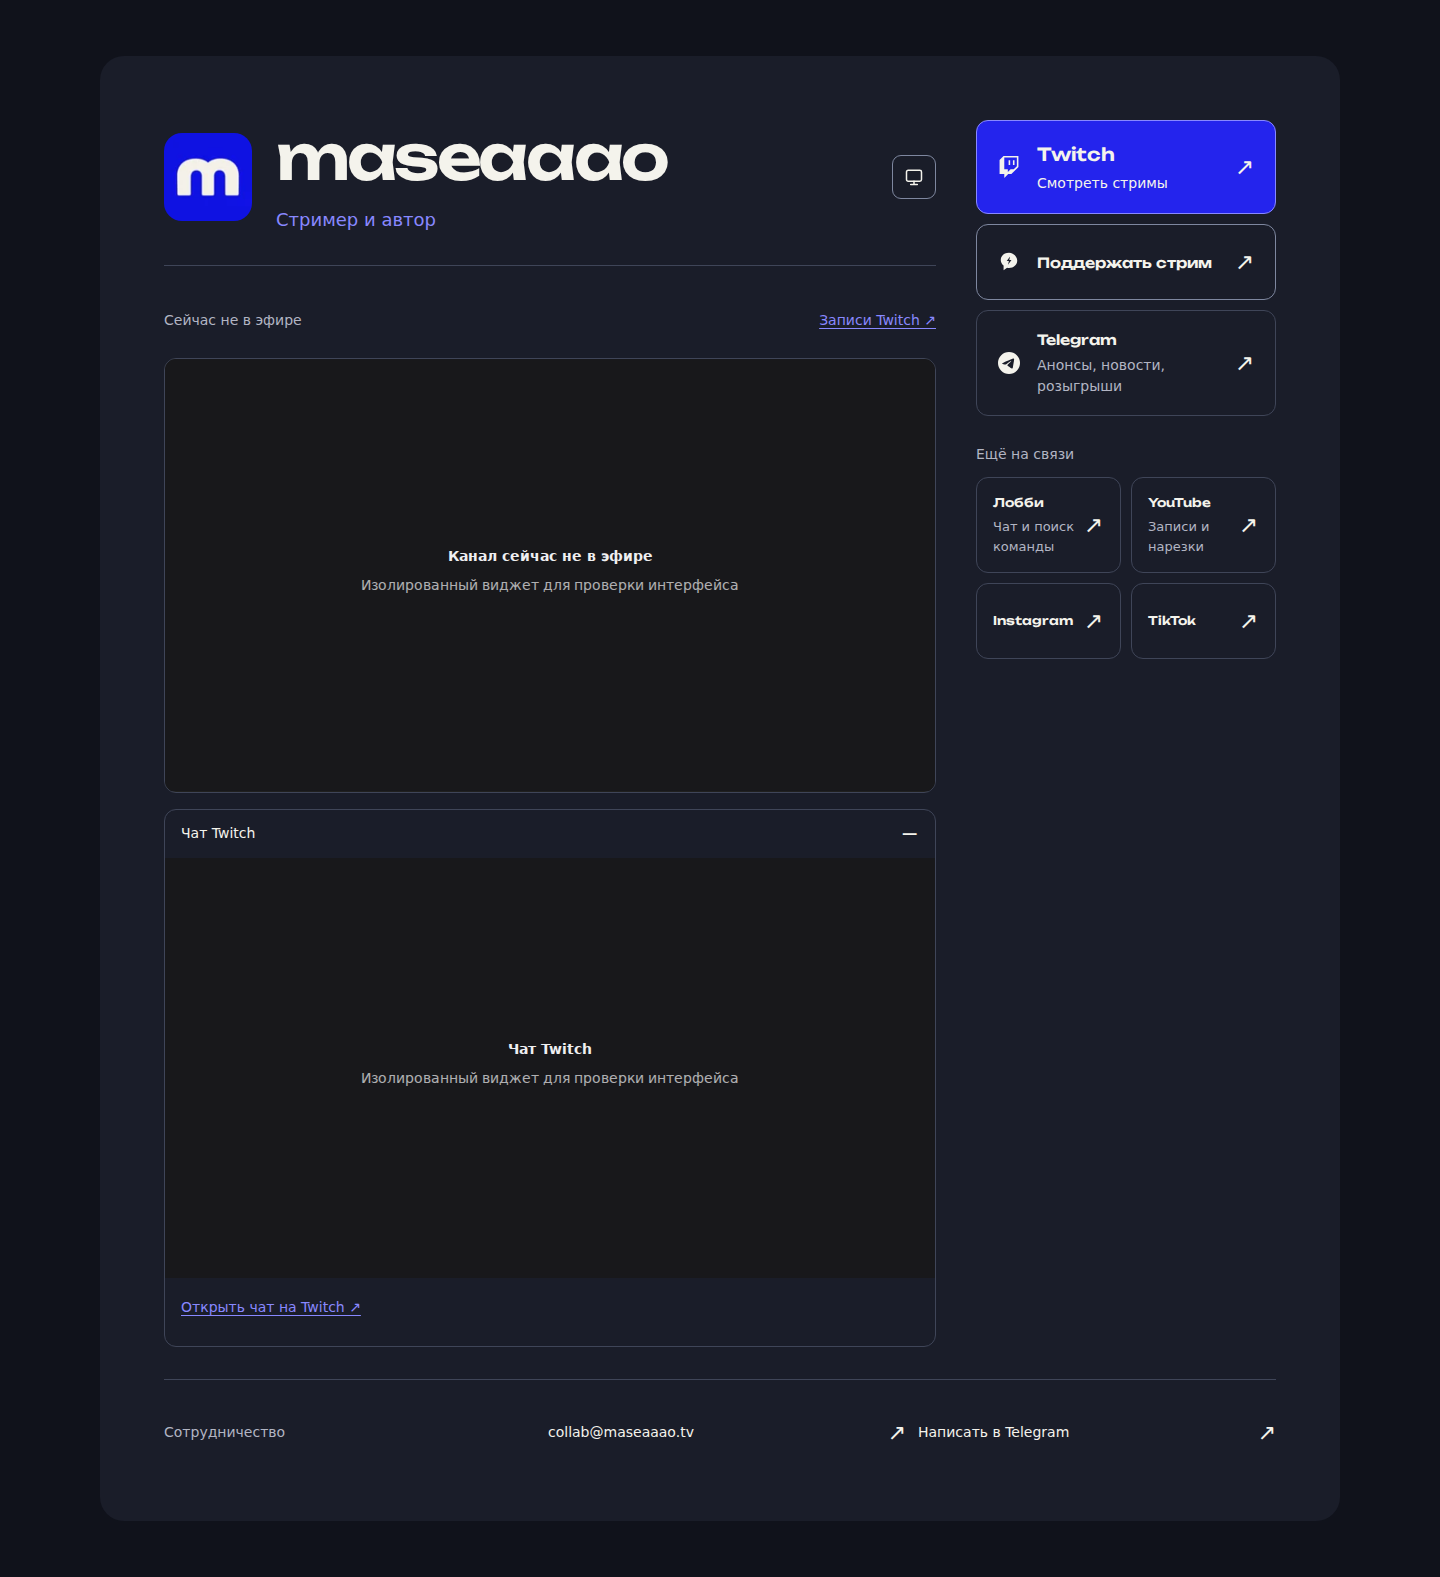
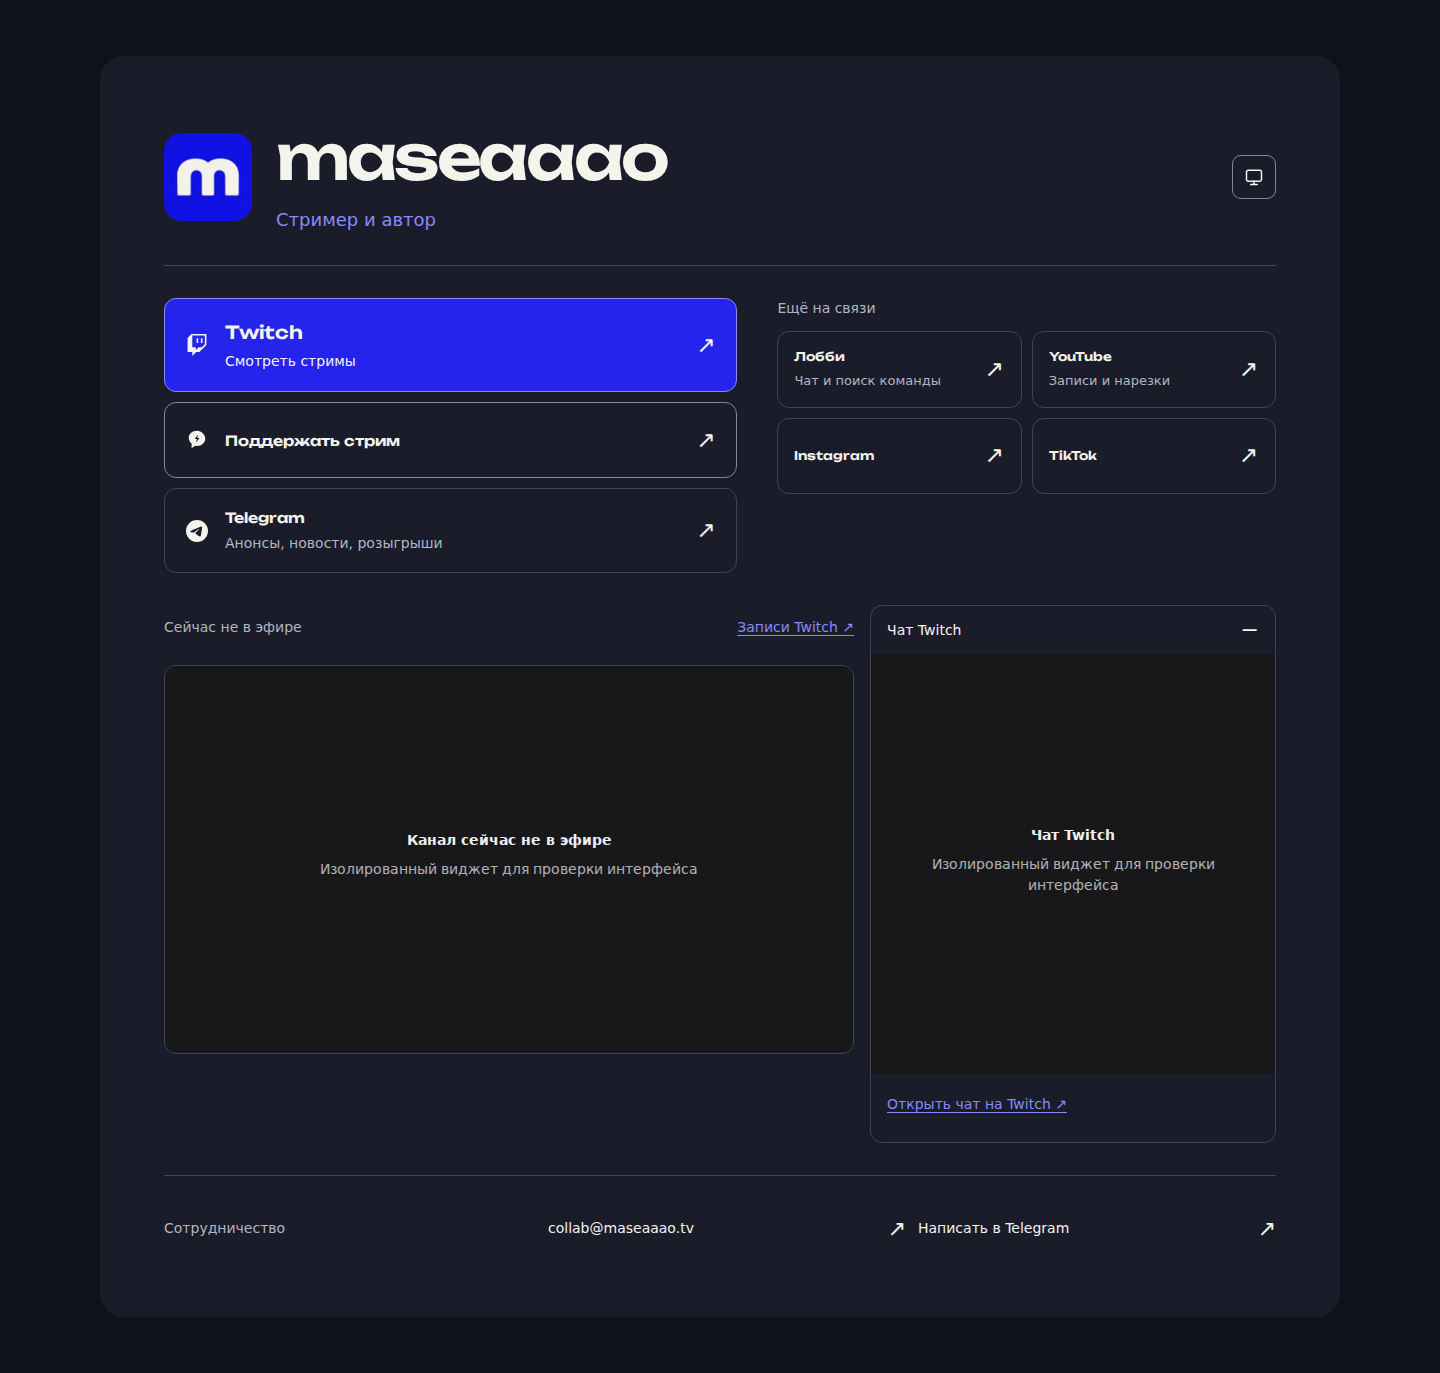
fix: keep nonmobile player and chat side by side below links

diff --git a/dist/assets/site.css b/dist/assets/site.css
@@ -46,7 +46,7 @@ a:focus-visible, button:focus-visible, summary:focus-visible, [tabindex="-1"]:fo
 .stream-fallback { margin: 0; color: var(--dim); font-size: 14px; }
 .stream-chat .stream-fallback { padding: 8px 16px 16px; }
 .stream-fallback a { display: inline-flex; align-items: center; min-height: 44px; }
-.stream-layout { grid-area: stream; grid-template-columns: minmax(0, 1.15fr) minmax(0, 1fr); align-items: start; }
+.stream-layout { grid-area: stream; grid-template-columns: minmax(0, 1fr); align-items: start; }
 .actions { grid-area: actions; display: grid; grid-template-columns: minmax(0, 1.15fr) minmax(0, 1fr); min-width: 0; gap: 28px 40px; align-items: start; }
 .section { min-width: 0; display: grid; gap: 12px; }
 .section-label, .collab__label { margin: 0; color: var(--dim); font: 14px/1.5 var(--font-body); }
@@ -119,13 +119,12 @@ a:focus-visible, button:focus-visible, summary:focus-visible, [tabindex="-1"]:fo
 .skip-links a { position: fixed; top: 12px; left: 12px; z-index: 10; transform: translateY(-200%); padding: 12px 16px; border: 2px solid var(--accent); border-radius: 8px; background: var(--surface); }
 .skip-links a:focus { transform: none; }
 #platform-links, #contacts { scroll-margin-top: 24px; }
-/* Stable desktop columns: profile and media on the left, actions on the right. */
-@media (min-width: 1101px) {
-  .shell { grid-template-columns: minmax(0, 1fr) 300px; grid-template-areas: "identity actions" "stream actions" "collab collab"; }
-  .actions, .stream-layout { grid-template-columns: minmax(0, 1fr); }
+/* Keep media below the links; reserve Twitch's minimum width beside chat. */
+@media (min-width: 768px) {
+  .stream-layout { grid-template-columns: minmax(402px, 1.7fr) minmax(0, 1fr); }
+  .stream-layout[data-state="offline"] .stream-archives { display: inline-flex; }
 }
-@media (min-width: 651px) { .stream-layout[data-state="offline"] .stream-archives { display: inline-flex; } }
-@media (max-width: 1000px) { .page { padding: 24px 16px; } .shell { gap: 28px; padding: 32px; } .actions, .stream-layout { grid-template-columns: minmax(0, 1fr); } .collab { grid-template-columns: 1fr; gap: 8px; } .identity { padding-bottom: 24px; } .tiles--primary { grid-template-columns: repeat(2, minmax(0, 1fr)); } .tile--wide { grid-column: 1 / -1; } .tiles--primary .tile { padding: 16px; gap: 12px; } }
+@media (max-width: 1000px) { .page { padding: 24px 16px; } .shell { gap: 28px; padding: 32px; } .actions { grid-template-columns: minmax(0, 1fr); } .collab { grid-template-columns: 1fr; gap: 8px; } .identity { padding-bottom: 24px; } .tiles--primary { grid-template-columns: repeat(2, minmax(0, 1fr)); } .tile--wide { grid-column: 1 / -1; } .tiles--primary .tile { padding: 16px; gap: 12px; } }
 @media (max-width: 540px) { .page { padding: 12px; } .shell { padding: 24px 20px; border-radius: 18px; gap: 24px; } .identity__top { gap: 16px; } .avatar-frame { width: 56px; height: 56px; border-radius: 12px; } .identity h1 { font-size: clamp(23px, 6.6vw, 34px); letter-spacing: -.06em; } .identity__description { margin-top: 8px; font-size: 15px; } .tiles--primary { grid-template-columns: 1fr; } .tile--wide { grid-column: auto; } .tile { min-height: 72px; padding: 16px; } .tile__title { font-size: 13px; } .collab__links { grid-template-columns: 1fr; gap: 0; } .checker { padding: 20px 12px; } .checker .card-header { padding: 16px; } .docs { padding: 28px 20px; } }
 @container twitch-content (width < 402px) { .stream-player { display: none; } .stream-mobile { display: block; } .stream-content > .stream-fallback { display: none; } }
 @media (prefers-reduced-motion: reduce) { *, *::before, *::after { transition: none !important; animation: none !important; scroll-behavior: auto !important; } .tile:active { transform: none; } }

diff --git a/dist/assets/stream.js b/dist/assets/stream.js
@@ -35,7 +35,7 @@
   fallbackUrl.searchParams.append("parent", window.location.hostname);
   originalFrame.remove();
 
-  const desktop = window.matchMedia("(min-width:651px)");
+  const desktop = window.matchMedia("(min-width:768px)");
   let status = "loading";
   let chatPreference = null;
   let playerPreference = false;

diff --git a/docs/layout.md b/docs/layout.md
@@ -1,15 +1,21 @@
-# Desktop viewing layout
+# Responsive viewing layout
 
-Wide viewports (1101px and above) use two stable columns: profile, player and
-chat on the left; a 300px column of platform/support links on the right. Contacts
-span the bottom. Compact layouts retain the sequential profile → links → media
-order. CSS controls this layout without detecting bots or full-screen APIs.
+At every viewport width, the profile is followed by platform/support links,
+then media and contacts. From 768px, the player and chat share a row below the
+links. The player column reserves at least 402px; chat uses the remaining width.
+Below 768px, media stacks vertically. CSS controls placement without detecting
+devices, bots or full-screen APIs.
 
-On nonmobile viewports (651px and above), the player and chat are open by default
+On nonmobile viewports (768px and above), the player and chat are open by default
 in loading, online, offline and error states. Offline leaves the native Twitch
 player visible; the status row retains the archive shortcut without replacing
 the player with a card. Status changes preserve the frame nodes and geometry.
 Users can collapse chat; their choice survives status updates and resizing.
+
+The Twitch SDK and fallback iframe both request autoplay with sound muted.
+When an online player is ready, the script also sets muted before requesting
+playback. If playback is blocked, the status message exposes the manual play
+action; browser permission to autoplay is not guaranteed.
 
 The status row reserves 44px so switching its message or showing the archive
 shortcut does not shift media. Player initialization still requires at least
@@ -23,13 +29,14 @@ The work adds no framework, dependency, timer or user-agent detection.
 
 ## Verification
 
-Chromium 153: both themes, online/offline/SDK error, 12 viewport widths from
-320px through 1920px, including both sides of the 1100/1101px layout breakpoint.
+Chromium 153: both themes, online/offline/SDK error, 14 viewport widths from
+320px through 1920px, including both sides of 767/768px and 1000/1001px.
 Checked visible text contrast, horizontal overflow, default media visibility,
-Twitch minimum dimensions and the theme dropdown bounds (72 combinations).
-The suite also checks stable link/video positions, retained iframe nodes,
-keyboard controls, manual chat choices, 200% text and viewport defaults when the
-player column itself does not resize.
+Twitch minimum dimensions and the theme dropdown bounds (84 combinations).
+The suite also checks media below links, side-by-side nonmobile media, mobile
+stacking, autoplay/muted options, mute-before-play order, stable link/video
+positions, retained iframe nodes, keyboard controls, manual chat choices, 200%
+text and viewport defaults when the player column itself does not resize.
 
 Twitch SDK and iframe requests were isolated with test responses. The previews
 show that isolated content, not an actual broadcast or real chat session.

diff --git a/docs/screenshots/README.md b/docs/screenshots/README.md
@@ -1,12 +1,15 @@
 # Interface previews
 
 Current previews use Chromium 153 with local fonts and the approved blue avatar.
-The wide desktop layout places profile/player/chat on the left and links on the
-right. Desktop player and chat remain visible even when the channel is offline.
+Profile and links come first. From 768px, the player and chat sit side by side
+below the links and remain visible even when the channel is offline. Both the
+SDK and fallback player request autoplay with sound muted.
 
 - `landing-desktop.png`, `landing-light-1440.png`, `landing-dark-1440.png`: offline
   desktop with the player and chat open by default.
 - `landing-online-{light,dark}-1440.png`: online desktop with the same geometry.
+- `landing-{light,dark}-{768,1024}.png`: side-by-side player/chat at tablet and
+  compact desktop widths, with media below the links.
 - `landing-mobile.png`, `landing-light-390.png`, `landing-dark-390.png`: compact
   layout; below Twitch's minimum player width, the external action remains.
 - `theme-menu-{light,dark}-{width}.png`: expanded theme menu at 1440px and 320px.
